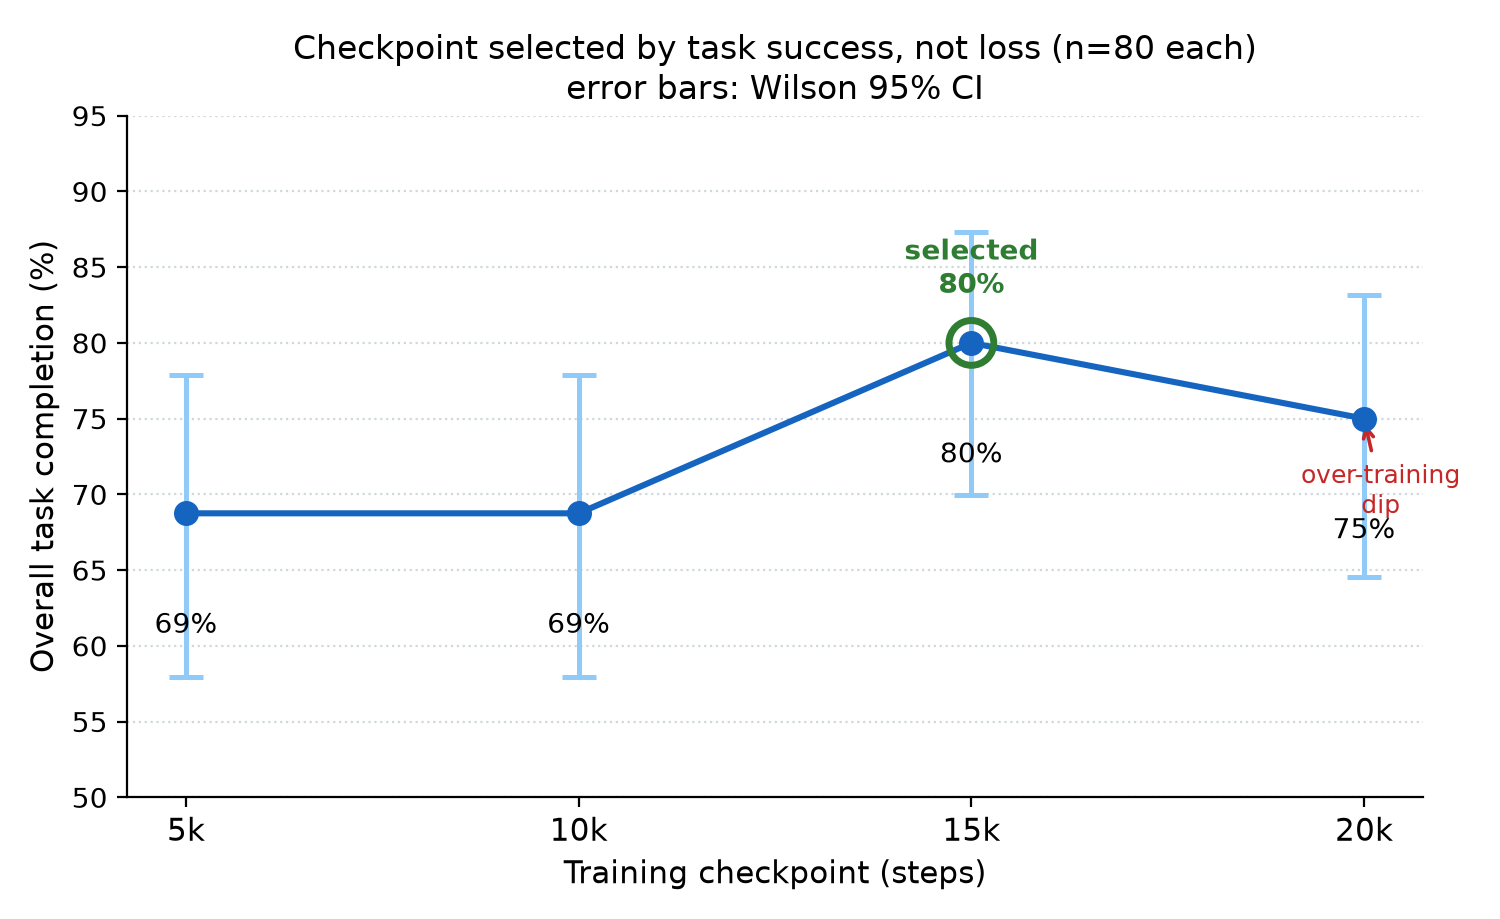
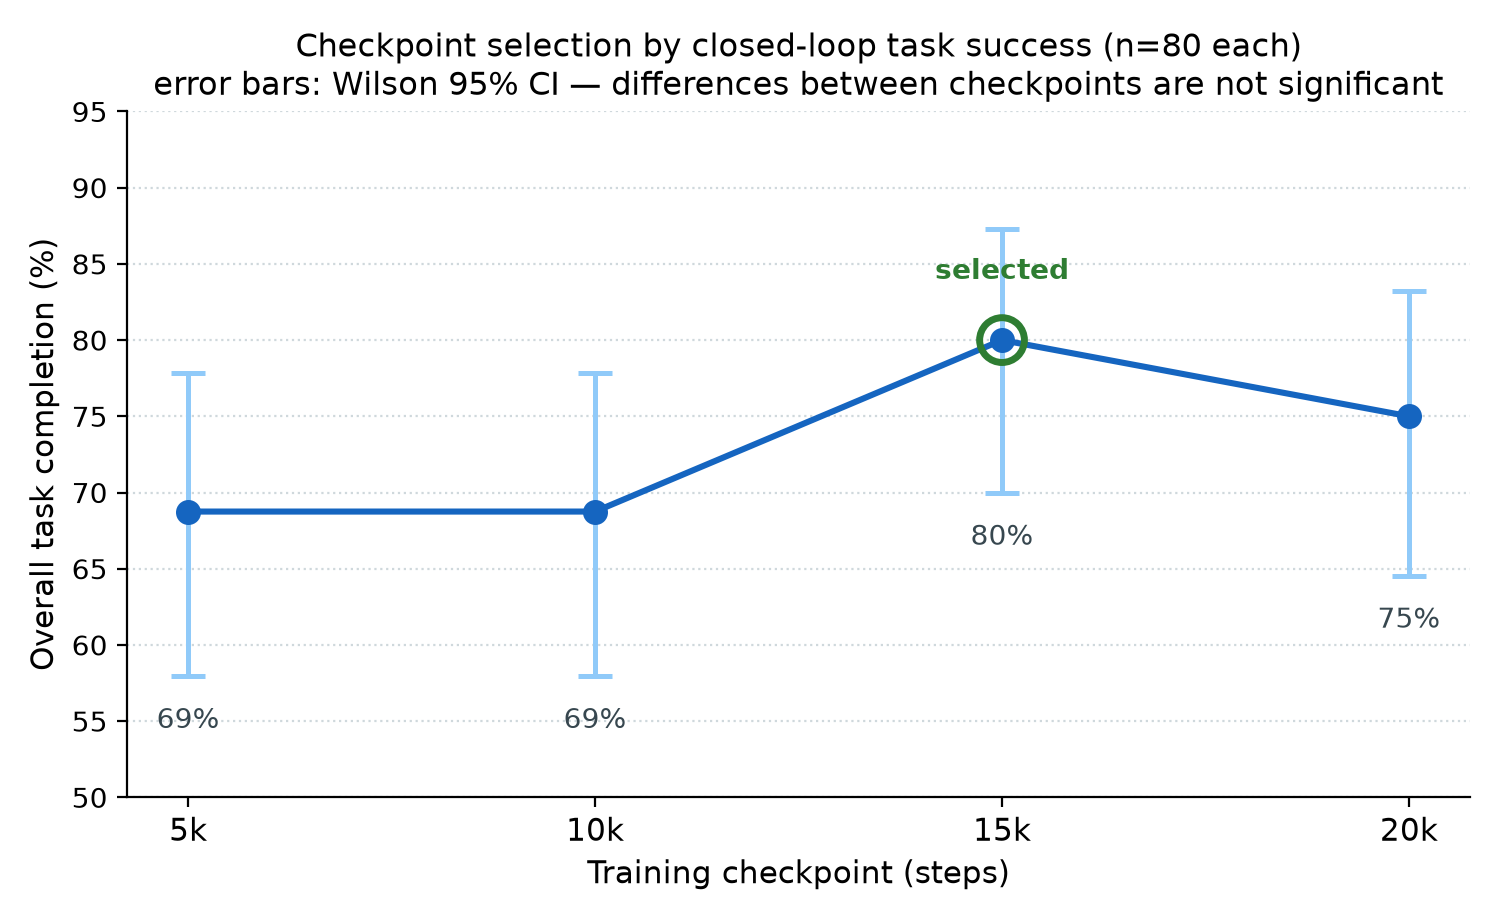
Figures: drop the over-training annotation, fix 240 -> 208 in Fig 3.1 and 3.7
- checkpoint_selection: removed the red "over-training dip" arrow and label, which
  contradicted both its own caption and §4.9. Title no longer claims selection "not
  loss" (no loss log exists for this run) and now states that the differences are not
  significant. Value labels moved clear of the CI whiskers, which they overlapped.
- fig_pipeline (Fig 3.1): "240 demos" -> "240 collected / 208 train".
- smolvla_architecture (Fig 3.7): "trained on our 240 demos" -> "208 train demos".
- Alt text for both figures updated to match; the checkpoint alt text now describes
  the overlapping intervals rather than a "dip".

Figures regenerated and visually verified before installing into thesis/figures/.

diff --git a/scripts/make_plots.py b/scripts/make_plots.py
@@ -90,21 +90,22 @@ def plot_checkpoints():
     # highlight the selected (peak) checkpoint
     ax.scatter([x[best]], [pct[best]], s=260, facecolors="none",
                edgecolors="#2e7d32", linewidths=2.5, zorder=4)
-    ax.annotate(f"selected\n{pct[best]:.0f}%", (x[best], pct[best]),
-                textcoords="offset points", xytext=(0, 18),
+    ax.annotate("selected", (x[best], pct[best]),
+                textcoords="offset points", xytext=(0, 22),
                 ha="center", fontsize=10, color="#2e7d32", fontweight="bold")
-    ax.annotate("over-training\ndip", (x[-1], pct[-1]),
-                textcoords="offset points", xytext=(6, -34),
-                ha="center", fontsize=9, color="#c62828",
-                arrowprops=dict(arrowstyle="->", color="#c62828", lw=1.3))
-    for xi, p in zip(x, pct):
-        ax.text(xi, p - 6.5, f"{p:.0f}%", ha="center", va="top", fontsize=10)
+    # Value labels sit clear of the lower CI cap so they never overlap the whiskers.
+    for xi, p, lo in zip(x, pct, los):
+        ax.text(xi, p - lo - 2.0, f"{p:.0f}%", ha="center", va="top",
+                fontsize=10, color="#37474f")
     ax.set_xticks(x); ax.set_xticklabels(labels, fontsize=11)
     ax.set_xlabel("Training checkpoint (steps)", fontsize=11)
     ax.set_ylabel("Overall task completion (%)", fontsize=11)
     ax.set_ylim(50, 95)
-    ax.set_title("Checkpoint selected by task success, not loss (n=80 each)\nerror bars: Wilson 95% CI",
-                 fontsize=12)
+    # No claim of over-training: paired McNemar tests find no significant difference
+    # between any pair of checkpoints on task completion (all p >= 0.19).
+    ax.set_title("Checkpoint selection by closed-loop task success (n=80 each)\n"
+                 "error bars: Wilson 95% CI — differences between checkpoints are not significant",
+                 fontsize=11.5)
     ax.spines[["top", "right"]].set_visible(False)
     ax.grid(axis="y", ls=":", color="#cfd8dc", zorder=0)
     fig.tight_layout()

diff --git a/thesis/chapters/03-methodology.tex b/thesis/chapters/03-methodology.tex
@@ -15,7 +15,7 @@ robot, receiving only images, proprioception and the language instruction.
 \begin{figure}[ht]
 \begin{center}
 \includegraphics[width=\textwidth,
-    alt={A four-stage pipeline: scripted expert with mink inverse kinematics generating 208 training demonstrations, a LeRobot dataset of three cameras plus state plus instruction, fine-tuning SmolVLA with a frozen backbone, and closed-loop evaluation with Wilson confidence intervals.}]{figures/fig_pipeline}
+    alt={A four-stage pipeline: scripted expert with mink inverse kinematics, 240 demonstrations collected and 208 used for training; a LeRobot dataset of three cameras plus state plus instruction; fine-tuning SmolVLA with a frozen backbone; and closed-loop evaluation with Wilson confidence intervals.}]{figures/fig_pipeline}
 \end{center}
 \caption{The experimental pipeline. A scripted inverse-kinematics expert generates
 demonstrations, which are converted to the LeRobot dataset format and used to

diff --git a/thesis/chapters/04-results.tex b/thesis/chapters/04-results.tex
@@ -596,7 +596,7 @@ Change 15k$\rightarrow$20k & $-1$ & $\mathbf{-7}$ & $+4$ & $0$ & $-4$ \\
 \begin{figure}[ht]
 \begin{center}
 \includegraphics[width=0.8\textwidth,
-    alt={A line chart of task-completion rate versus training step, peaking at the 15k checkpoint (80 percent) and dipping at 20k (75 percent), with confidence-interval error bars.}]{figures/checkpoint_selection}
+    alt={A line chart of task-completion rate versus training step: 69 percent at 5k and 10k, 80 percent at 15k, 75 percent at 20k. Wilson confidence-interval error bars span roughly ten points either side of each value and overlap across all four checkpoints.}]{figures/checkpoint_selection}
 \end{center}
 \caption{Task-completion rate versus training checkpoint, selected by closed-loop
 success rather than loss. The 15k checkpoint attains the highest rate; the

diff --git a/scripts/make_arch_diagram.py b/scripts/make_arch_diagram.py
@@ -90,7 +90,7 @@ ax.add_patch(FancyBboxPatch((0.3, 0.30), 0.35, 0.30, boxstyle="round,pad=0.02",
 ax.text(0.78, 0.45, "frozen (pretrained perception)", va="center", fontsize=9.5, color="#455a64")
 ax.add_patch(FancyBboxPatch((5.1, 0.30), 0.35, 0.30, boxstyle="round,pad=0.02",
              fc=TRAIN_C, ec=TRAIN_E, lw=2))
-ax.text(5.58, 0.45, "trained on our 240 demos (fits 12 GB)", va="center", fontsize=9.5, color="#455a64")
+ax.text(5.58, 0.45, "trained on our 208 train demos (fits 12 GB)", va="center", fontsize=9.5, color="#455a64")
 
 ax.set_title("SmolVLA architecture:  reads + looks  →  plans actions",
              fontsize=14, fontweight="bold", pad=12)

diff --git a/scripts/make_thesis_figures.py b/scripts/make_thesis_figures.py
@@ -91,7 +91,7 @@ def nearmiss():
 def pipeline():
     fig, ax = plt.subplots(figsize=(11, 3.2))
     ax.set_xlim(0, 11); ax.set_ylim(0, 3.2); ax.axis("off")
-    stages = [("Scripted expert", "mink IK\n240 demos", TEAL),
+    stages = [("Scripted expert", "mink IK\n240 collected\n208 train", TEAL),
               ("LeRobot dataset", "3 cams + state\n+ instruction", INK),
               ("Fine-tune SmolVLA", "freeze backbone,\ntrain action head", TEAL),
               ("Closed-loop eval", "success rate,\nWilson CIs", INK)]
